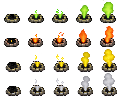
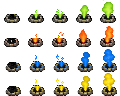
Vent plumes and the Paralysed status match their gas colours
- vent_cycle: the paralysis plume is blue (same plume pixels hue-shifted at
  equal saturation and value); the confusion row is the original yellow
  plume again, matching its yellow gas.
- Paralysis condition tint, chip ink and chip background go blue.
- Poison gas is a brighter lime, matching the poison vent's plume.

Claude-Session: https://claude.ai/code/session_01X3xCMDSEb9cxiFN5XJdYjL

diff --git a/index.html b/index.html
@@ -2912,7 +2912,7 @@
   <script src="src/spider_webs.js?v=6ed9bb04"></script>
   <script src="src/pressure_traps.js?v=721efe14"></script>
   <script src="src/gas.js?v=a20c5b7d"></script>
-  <script src="src/mushroom_gas.js?v=ccf469f4"></script>
+  <script src="src/mushroom_gas.js?v=7db01443"></script>
   <script src="src/lairs.js?v=a5b9743c"></script>
   <script src="src/dungeon_progression.js?v=3a8af653"></script>
   <script src="src/elevators.js?v=e02a2b01"></script>
@@ -2928,7 +2928,7 @@
   <script src="src/items.js?v=0a26372b"></script>
   <script src="src/inventory.js?v=08929c24"></script>
   <script src="src/energy.js?v=10dc51a3"></script>
-  <script src="src/conditions.js?v=961c6639"></script>
+  <script src="src/conditions.js?v=875a5f86"></script>
   <script src="src/player_time.js?v=bcfa05e1"></script>
   <script src="src/potion_effects.js?v=cec6c482"></script>
   <script src="src/crops.js?v=cbbbf8f0"></script>
@@ -2975,7 +2975,7 @@
   <script src="src/lighting.js?v=d27ba24a"></script>
   <script src="src/safety.js?v=f101b236"></script>
   <script src="src/render.js?v=c4f88534"></script>
-  <script src="src/gas_render.js?v=e0a242a3"></script>
+  <script src="src/gas_render.js?v=968b9603"></script>
   <script src="src/multiplayer.js?v=f4b9cac5"></script>
   <script src="src/road_overlay.js?v=83ef35c3"></script>
   <script src="src/temple_art.js?v=c50c5db5"></script>

diff --git a/test/node/environment_hazards.test.js b/test/node/environment_hazards.test.js
@@ -400,11 +400,11 @@
       const h = EnvironmentHazards.create(s, 'vent', { cellIX: 3, cellIY: 3 }, kind, () => .5, kind);
       assert.falsy(EnvironmentHazards.eligible(s, h), kind + ' never vents on L1');
     }
-    const grey = EnvironmentHazards.create(s, 'vent', { cellIX: 3, cellIY: 3 }, 'c', () => .5, 'confusion');
-    assert.truthy(EnvironmentHazards.eligible(s, grey));
-    assert.eq(grey.frame, 15, 'the grey row is the fourth sheet row');
+    const yellow = EnvironmentHazards.create(s, 'vent', { cellIX: 3, cellIY: 3 }, 'c', () => .5, 'confusion');
+    assert.truthy(EnvironmentHazards.eligible(s, yellow));
+    assert.eq(yellow.frame, 15, 'the yellow confusion row is the fourth sheet row');
     s.depth = 2;
-    assert.falsy(EnvironmentHazards.eligible(s, { ...grey, depth: 2 }), 'confusion stays on L1');
+    assert.falsy(EnvironmentHazards.eligible(s, { ...yellow, depth: 2 }), 'confusion stays on L1');
   }));
   test('vents: a confusion eruption bursts mushroom gas onto the adjacent cells and deals no hit', () => fixture(s => {
     s._mushroomGas = null;

diff --git a/sw.js b/sw.js
@@ -1,7 +1,7 @@
 // Content-addressed resources survive deployments. HTML stays network-first;
 // tiles retain their independent offline cache. Keep two shell generations so
 // old tabs can still request their exact script URLs after a worker update.
-const SHELL_VERSION = 'shell-4a401ac5';
+const SHELL_VERSION = 'shell-3ef1c3a6';
 
 const RESOURCE_CACHE = 'terracart-resources-v1';
 const RESOURCE_MANIFEST = './__terracart_resource_manifest__';
@@ -509,7 +509,7 @@ const ASSET_HASHES = {
   "assets/Objects/HazardAnimationsV2/tornado-source.png": "37705e16",
   "assets/Objects/HazardAnimationsV2/tornado.png": "8a6f5393",
   "assets/Objects/HazardAnimationsV2/vent-active-reference.png": "6b6f2cc3",
-  "assets/Objects/HazardAnimationsV2/vent-cycle-complete.png": "221e86ef",
+  "assets/Objects/HazardAnimationsV2/vent-cycle-complete.png": "3bc690f4",
   "assets/Objects/HazardAnimationsV2/vent-cycle.png": "f723deb1",
   "assets/Objects/HazardAnimationsV2/vent-inactive-source.png": "e10c72bd",
   "assets/Objects/HazardAnimationsV2/vent-inactive.png": "1fd11ef5",

diff --git a/test/node/vent_conditions.test.js b/test/node/vent_conditions.test.js
@@ -38,12 +38,12 @@
     assert.falsy(Conditions.apply({ fireResistancePotionUntil: 100 }, 'burning', 0, { durationMs: 6000 }));
     assert.falsy(Conditions.apply(save, 'poison', 0, { durationMs: NaN }));
   });
-  test('vent paralysis: yellow status holds the central body gate and releases at exactly five seconds', () => {
+  test('vent paralysis: blue status holds the central body gate and releases at exactly five seconds', () => {
     const s = Object.assign({ save: { energy: 100 }, _walkHazardSlow: () => false }, methods);
     Conditions.apply(s.save, 'paralysis', 0, { durationMs: 5000 });
     assert.truthy(s._bodyHold().pinned);
     assert.eq(Conditions.movementMul(s.save), 0);
-    assert.eq(Conditions.DEFINITIONS.paralysis.tint, 0xffdf38);
+    assert.eq(Conditions.DEFINITIONS.paralysis.tint, 0x4f9fff);
     Conditions.tick(s.save, 4999);
     assert.truthy(s._bodyHold().pinned);
     Conditions.tick(s.save, 1);

diff --git a/src/conditions.js b/src/conditions.js
@@ -35,7 +35,7 @@
     frozen: Object.freeze({ durationMs: 10000, moveSpeedMul: 0.5, attackSpeedMul: 0.5, refresh: false,
       label: 'Chilled', tint: FROZEN_TINT, flicker: false, ink: '#' + FROZEN_TINT.toString(16).padStart(6, '0'), bg: '#102a3ae8' }),
     paralysis: Object.freeze({ durationMs: 5000, maxDurationMs: 6000, blocksMovement: true, blocksAttacks: true,
-      label: 'Paralysed', tint: 0xffdf38, flicker: false, ink: '#fff08a', bg: '#39300ce8' }),
+      label: 'Paralysed', tint: 0x4f9fff, flicker: false, ink: '#b4d8ff', bg: '#0e1f3ae8' }),
     pinned: Object.freeze({ durationMs: 3000, blocksMovement: true,
       label: 'Pinned', tint: 0xb8bcc8, flicker: false, ink: '#d6dae6', bg: '#1c1f28e8' }),
   });

diff --git a/src/gas_render.js b/src/gas_render.js
@@ -4,7 +4,8 @@ const GasRender = (() => {
   const FADE_MS = 320;
   // Colours are the kind's row (MushroomGas.KINDS): confusion BRIGHT YELLOW
   // (owner, Oct 2026: the old lilac all but vanished over grass, and a muted
-  // yellow sank into dim cave floors), poison green, paralysis blue. The
+  // yellow sank into dim cave floors), poison lime green, paralysis blue, each
+  // matching its vent's plume (vent_cycle). The
   // mushroom monster's travelling puff paints confusion through here too.
   // Cell opacity: any gas at all starts from MIN_ALPHA so a thin fringe still
   // reads in its colour over a dark cave floor, rather than murk; a dense

diff --git a/src/mushroom_gas.js b/src/mushroom_gas.js
@@ -12,7 +12,7 @@
   // between doses is the window to walk out.
   const KINDS = Object.freeze({
     confusion: Object.freeze({ condition: 'confused', durationMs: 5000, colour: 0xffde1a, highlight: 0xffffc4 }),
-    poison: Object.freeze({ condition: 'poison', durationMs: 30000, colour: 0x7ddc2e, highlight: 0xe2ffb8 }),
+    poison: Object.freeze({ condition: 'poison', durationMs: 30000, colour: 0xa4f02c, highlight: 0xf0ffc8 }),
     paralysis: Object.freeze({ condition: 'paralysis', durationMs: 5000, rearmMs: 8000,
       colour: 0x3f9dff, highlight: 0xd2ecff }),
   });

diff --git a/tools/probe_sandbox_hazards.py b/tools/probe_sandbox_hazards.py
@@ -90,7 +90,7 @@ CASES = {
    const near=cells.filter(c=>Math.abs(c.cellIX-h.cellIX)+Math.abs(c.cellIY-h.cellIY)===1);
    check(near.length>=1,'gas reaches the adjacent cells');
    check(Conditions.active(s.save,'confused'),'the gas confuses the player');
-   draw();check(s._environmentHazardPool.some(o=>o.visible&&o.texture.key==='vent_cycle'&&o.frame.name>=15),'grey vent row rendered');
+   draw();check(s._environmentHazardPool.some(o=>o.visible&&o.texture.key==='vent_cycle'&&o.frame.name>=15),'confusion vent row rendered');
    return {gasCells:cells.length,adjacent:near.length};
  }"""),
  'pressure-contact': ('hazards-deep', r"""() => {

diff --git a/assets/Objects/HazardAnimationsV2/README.md b/assets/Objects/HazardAnimationsV2/README.md
@@ -4,7 +4,7 @@ Square top-down grid, artwork viewed from overhead tilted toward the south. Nati
 
 Vents and sinkholes are integrated through `src/environment_hazards.js`; the whirlwind uses `src/whirlwinds.js`. Their clocks advance during foreground gameplay. Seeded visit encounters retain the world's terrain, building and private-land exclusions.
 
-Underground vents repeat 5 seconds inactive, 3 seconds warning, and 3 seconds active. Contact damages the player at most once per second. Fire applies 6 seconds of burning, poison applies 30 seconds of poison, and yellow gas applies 5 seconds of paralysis. The first cave floor vents only grey confusion gas: it deals no contact damage, and each eruption bursts into the shared confusion-gas field (`MushroomGas`), briefly gassing the adjacent cells. Poison, fire and paralysis vents start on the second floor. Paralysis stops movement and starting/continuing attacks; projectiles already in flight continue. Repeated exposure refreshes the specified duration without shortening a stronger existing condition. Existing immunities apply.
+Vents cycle inactive, 3 seconds warning, and 3 seconds active; the fire vent rests 5 seconds and the gas vents 20 (`EnvironmentHazards.CONFIG.vent`). The fire vent damages on contact at most once per second, applies 6 seconds of burning, and lights burning ground on its cell and the four beside it. Gas vents deal no contact damage: each eruption bursts gas of its own kind (`MushroomGas.KINDS`: green poison, blue paralysis, yellow confusion), which spreads to the adjacent cells. The first cave floor vents only confusion; poison, fire and paralysis vents start on the second floor. Paralysis stops movement and starting/continuing attacks; projectiles already in flight continue. Repeated exposure refreshes the specified duration without shortening a stronger existing condition. Existing immunities apply.
 
 Sinkholes cover a complete 2×2-cell region, excluding buildings and occupied structures. Cracks warn for 5 seconds, followed by a brief opening animation, a seeded 5–20-second open period, and a 0.6-second close. An overlapping player falls one level with no additional fall-damage charge. Destination terrain, objects, creatures and traps are checked before committing the transition; failed or stale loads do not move the player. Falls are involuntary, so ordinary stair/rope progression locks do not stop them. Reserved arena floors are excluded.
 
@@ -12,6 +12,6 @@ Sinkhole warning and closing frames are terrain-independent alpha overlays. The 
 
 Whirlwinds form harmlessly, then roam eligible grass/school ground and damage/push nearby characters. Player knockback changes the movement offset, not raw GPS.
 
-`vent-cycle-complete.png` has five columns (inactive, two warning, two active) and four rows (poison, fire, paralysis, confusion). The confusion row is the paralysis row with its yellow plume recoloured grey at the same luminance; `pack-vents.cjs` does not produce it. `vent-inactive.png` has one inactive cell per row. `pack-vents.cjs` retains the approved stone ring and replaces plume-colored aperture pixels using the generated inactive reference. The old four-column cycle remains for compatibility. All three inactive states are used by the repeating vent cycle.
+`vent-cycle-complete.png` has five columns (inactive, two warning, two active) and four rows (poison, fire, paralysis, confusion), each plume the colour of its gas. `pack-vents.cjs` packs the original yellow paralysis row; the sheet's confusion row keeps that yellow, and its paralysis row has the same plume pixels hue-shifted to blue at the same saturation and value. `pack-vents.cjs` produces neither recolour. `vent-inactive.png` has one inactive cell per row. `pack-vents.cjs` retains the approved stone ring and replaces plume-colored aperture pixels using the generated inactive reference. The old four-column cycle remains for compatibility. All three inactive states are used by the repeating vent cycle.
 
 `index.html` previews all cycles over grass, stone, snow or transparency checks. `frames.json` describes layout. `export.cjs` packs original generation sources without smoothing. The prior opaque-soil sinkhole is retained as `sinkhole-ground-patch.png` for comparison.

diff --git a/docs/design/floors.md b/docs/design/floors.md
@@ -57,7 +57,7 @@ trials still run in the paused overlay scene (`temple_scene.js`).
 
 | Floor | Theme | Terrain and look | Unique to this floor | Signature foes |
 | --- | --- | --- | --- | --- |
-| 1 | Natural caves with some engineered tunnels | Cave: the negative of the surface's walkable cells | Street and path mirror routes with themes, authored spring caves, barrels, floor torches, grey confusion-gas vents (no contact hit; each eruption is a mushroom-sized burst of yellow confusion gas that briefly reaches the adjacent cells; gas vents rest 20 s so a burst disperses even from a one-cell passage before the next), quarry gem seams, double mushroom growth, a thin copper seam (5 % of rocks); pits, holes and sinkhole cave-ins drop into the goblin city below; the only floor where campfires ward monsters (`FIRE_WARD_MAX_DEPTH = 1`) | Slimes above all - green, cave, purple and splitting - with bats and a few goblins (one habitat region in eight is a warren; window 1-2) |
+| 1 | Natural caves with some engineered tunnels | Cave: the negative of the surface's walkable cells | Street and path mirror routes with themes, authored spring caves, barrels, floor torches, yellow confusion-gas vents (no contact hit; each eruption is a mushroom-sized burst of yellow confusion gas that briefly reaches the adjacent cells; gas vents rest 20 s so a burst disperses even from a one-cell passage before the next), quarry gem seams, double mushroom growth, a thin copper seam (5 % of rocks); pits, holes and sinkhole cave-ins drop into the goblin city below; the only floor where campfires ward monsters (`FIRE_WARD_MAX_DEPTH = 1`) | Slimes above all - green, cave, purple and splitting - with bats and a few goblins (one habitat region in eight is a warren; window 1-2) |
 | 2 | Goblin city | Only buildings turn to rock wall - roads stay open, unlike every other floor - and goblin-warren rooms laid out nexus-style cover the rest of the floor | The warrens are the floor: rooms claim everything except small clearings, which appear only on road variants and at non-goblin nexus places, the same anchors as floor 1; falls from floor 1's pits land in those clearings; a thin copper seam (the floor 1 share); rolling-ball and sliding-wall pressure plates, and poison, fire and paralysis vents, which start here: poison and paralysis vents burst green and blue gas like the floor-1 vent (paralysis gas re-arms after each dose, leaving a window to walk out), and each fire-vent eruption lights its cell and the four beside it as burning ground | The warren family: club, spear and archer goblins, goblin trappers (city window 2-3) |
 | 3 | Deep stone | Only surface park, grove, playground, pitch and commercial ground opens; the rest is stone the player must dig through to get anywhere | Digging is the way around: most places need it, and road variants keep about half the roads cleared as tunnels; the only way down to floor 4 is a shaft dug through the stone; clearings settle as Deep groves and Dwarven cities with residents, caches and shrines; copper is its mine; ambient crypt ghosts begin one floor below | Spider, zombie, spear goblin (3-4) |
 | 4 | Underdark: a fungal world, open like the surface | Every cell opens into one cavern - no corridor maze, open ground under the fungi | The portal stone waits here (the first tier-4-or-better chest a kilometre or more out - the floor's depth bonus lifts every chest to effective T3, so the bar is T4); first floor where chest tiers can reach T6; crypt ghosts appear; double mushroom growth returns with the fungi; the arrival story plays here ("The walls fall away into a barren cavern") | Purple slime, mushroom monsters, troll (4-5, troll 4-4) |

diff --git a/docs/process/SANDBOX.md b/docs/process/SANDBOX.md
@@ -209,7 +209,7 @@ whose stable ID passes the real nest roll. The beach has a readable bottle.
 spawn is clear of their contact cells. The web uses the normal saved landing
 record and expiry; stepping off and back on tests paralysis renewal.
 
-`hazards-cave` starts at depth 1 with the floor's grey confusion vent and a
+`hazards-cave` starts at depth 1 with the floor's yellow confusion vent and a
 connected pair of cave-in cells. `hazards-deep` starts at depth 2 with its
 three vents (poison, fire, paralysis), a rolling ball and a sliding wall. Each
 lab seats the vents `EnvironmentHazards.ventKinds` allows on its floor. Arrival
